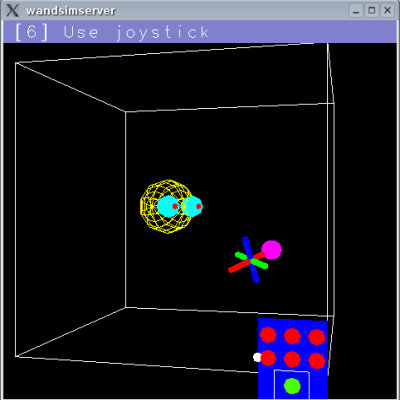
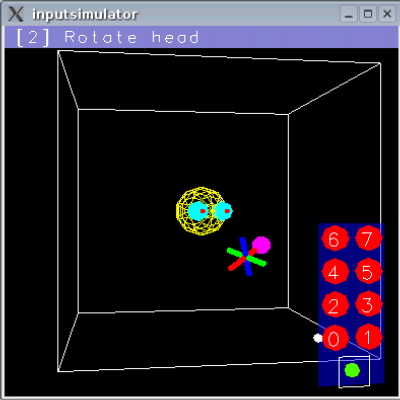
fixed a little arGraphicsStateNode bug and have started updating the docs

Changed region(s): [[0.0, 0.0, 1.0, 1.0], [0.57, 0.57, 0.72, 0.72]]

diff --git a/doc/Bugs.html b/doc/Bugs.html
@@ -75,9 +75,6 @@ previously.
 
 <li>Phleet needs new methods! Specifically, we must be able to release
 services. Also, need to be able to get service info from the command line!
-<li> On Mac OS X, dhunt does not seem to work. If you run an szgserver
-on OS X and type dhunt on that box, the szgserver does not appear. Is the
-problem filtering of the broadcast packets?
 <li>BUG: if someone is looking for a service on network X but the
 service is offered on network Y, the connection won't work, but the
 service will disappear from dpending.
@@ -88,87 +85,23 @@ impairs the system. We should be more robust!
   
 <p><font size=+1>Graphics/Scene Graph/Database</font> <ul>
 
-<li>Alpha value for textures is SERIOUSLY messed up! Alpha channel in 
-textures doesn't quite work anymore. Specifically,
-the drawing code only turns blending on if it thinks that the alpha is less
-than 1 and the texture doesn't contribute to that as currently formulated.
-
-<li>BUG: My switch for determining if a texture is a bit buggy! What if
-someone uses an empty string for the texture name? (temporarily...) This
-can result in a situation where you cannot download a database!
-
-<li>Cannot reorder nodes. Sometimes drawing order needs to be changed 
-like when transparency is used. And drawing order depends on node order.
-Also, the nav node is attached first, so that its children are always
-drawn before the non-navigated objects.
-
-<li>Cameras are not handled very well in the arGraphicsDatabase. There is
-genuinely draw state which currently exists (which camera is active) but
-which does not appear in a dump. Furthermore, it is unclear how (if cameras
-weren't global) how different camera-containing trees would be combined.
-
 <li>Should be posible to draw .obj's without a graphics database.
-
-<li>Need a way, in the scene graph, to turn on/off OpenGL properties.
-
-<li>Should add mesh nodes (for simple shapes) to the database!
-
-<li>Need to consider mutex locking/unlocking of get/set methods and how this
-will work. For instance, it is not currently safe to get a matrix from a
-transform node because someone else might be changing it in place!
-
-<li>Need to support attach/detach for nodes in the database. This will
-enable more natural semantics
-
-<li>Need to use smart pointers for nodes! (our nodes may be deleted out from
-under us)
-
-<li>Thread-safety issues in terms of attaching/detaching a node and 
-invoking methods of that node... when the way the methods are invoked will
-changed based on whether or not it is part of a database!
-
-<li>Need to be able to "insert" a node (not just make a child of a parent).
-
-<li>Need to be able to delete a node, not a subtree (though deleting the
-subtree is important as well).
 
 <li>The node method calls are woefully inefficient for large arrays because 
 they do not use prtIn.
-
-<li>The node method calls should use an arStructuredDataParser to provide
-storage instead or new/delete. This should be benchmarked against using
-global (and NON THREAD-SAFE) storage!
 
 <li>dgSetGraphicsDatabase must be eliminated!
 
 <li>The light direction seems to be wrong! (i.e. direction = (0,0,10,0)
     instead of direction = (0,0,-10,0)
 
-<li>Things like arMesh and arOBJ etc. should have an implicit transform node
-contained within them.
-
 <li>3DS objects cannot have multiple parts! (i.e. only a single mesh 
 element, which means only a single material). Very bad!
 
-<li>obj parser does not show textures!
 
-<li>Erase seems to have infinite erase problems!
+</ul>
+<p><font size=+1>Python</font> <ul>
 
-<li>Cannot erase dgLight nodes.
-
-  </ul>
-  <p><font size=+1>Python</font> <ul>
-
-<li>Need to support more nodes in the python wrappers... i.e. all of them!
-
-<li>Implicit arguments do not seem not be handled well by SWIG (see the way
-createNode crashes on an implicit name)
-
-<li>On the python side, Cannot get the points array from the points node!
-    (i.e. getPoints() does not work!)
-
-<li>On the python side, obj.readOBJ does not work because of the path
-argument!
 
 <li>Must deal with the python examples (i.e. make them fit into the
 pattern...)
@@ -187,7 +120,9 @@ OR, if no arSZGClient, we will go ahead and explicitly do it.
 
 <li>The arDataServer should allow specific-socket-sending via HANDLES only.
 This is because it actively manages the sockets (and there's the possibility
-of a stale pointer).
+of a stale pointer). Another way to deal with this would be to add an
+event processing API, so that socket delete occurs a little less automatically,
+and to add reference counting to the socket class.
 
 <li>A weird bug. In standalone mode, with joystick (as in the standalone
 landspeeder), if the pforth filter is in the old style 
@@ -195,10 +130,10 @@ landspeeder), if the pforth filter is in the old style
 program segfaults with an error message "arSyncDataServer error: start 
 called before init".
 
-<li>Double key presses on master (when standalone). [What does this mean?]
-
 <li>Fix documentation to show how to use meshes (.obj and .3ds files) in
 master/slave framework apps.
+
+<hr>
 
 </ul>
 </body>

diff --git a/doc/GettingSoftware.html b/doc/GettingSoftware.html
@@ -51,32 +51,32 @@ the binary installable szg packages.
 <p>The following software (and data) packages are part of the Syzygy 
 distribution:
 <p><ul>
-<li>szg-0.7.tar.gz: Everything necessary to build and test the library. 
+<li>szg-0.8.tar.gz: Everything necessary to build and test the library. 
 Includes sample applications. See <a href="ExampleCode.html">here</a> for 
 information about running them.
-<li>vmat-0.7.tar.gz: A real-time physics library. Used in one of the szgdemo
+<li>vmat-0.8.tar.gz: A real-time physics library. Used in one of the szgdemo
 sample applications and includes an example of its own.
-<li>szgdemo-0.7.tar.gz: Additional sample applications. These are described
+<li>szgdemo-0.8.tar.gz: Additional sample applications. These are described
 <a href="ExampleCode.html">here</a>. 
-<li>szgdata-0.7.tar.gz: Data necessary for the sample applications, as outlined
+<li>szgdata-0.8.tar.gz: Data necessary for the sample applications, as outlined
 <a href="ExampleCode.html">here</a>, but excluding some particularly large 
 files, which are available by request.
-<li>py-szg-0.7.tar.gz: Python bindings for Syzygy.
-<li>pycube-0.7.tar.gz: Sample Python Syzygy programs.
-<li>szg-0.7-linux.tar.gz: Precompiled Linux version of the Syzygy SDK.
-<li>external-0.7-linux.tar.gz: External libraries and headers used to produce
+<li>py-szg-0.8.tar.gz: Python bindings for Syzygy.
+<li>pycube-0.8.tar.gz: Sample Python Syzygy programs.
+<li>szg-0.8-linux.tar.gz: Precompiled Linux version of the Syzygy SDK.
+<li>external-0.8-linux.tar.gz: External libraries and headers used to produce
 the executables.
-<li>szg-0.7-win32-vc6.tar.gz: Precompiled Win32 version of the Syzygy SDK for
+<li>szg-0.8-win32-vc6.tar.gz: Precompiled Win32 version of the Syzygy SDK for
 Visual Studio 6 plus STLport.
-<li>szg-0.7-win32-vc7.tar.gz: Precompiled Win32 version of the Syzygy SDK for
+<li>szg-0.8-win32-vc7.tar.gz: Precompiled Win32 version of the Syzygy SDK for
 Visual Studio 7.
-<li>external-0.7-win32.tar.gz: External libraries and headers used to produce
+<li>external-0.8-win32.tar.gz: External libraries and headers used to produce
 the executables.
-<li>szg-0.7-darwin.tar.gz: Precompiled Mac OS X version of the Syzygy SDK.
-<li>external-0.7-darwin.tar.gz: External libraries and headers used to produce
+<li>szg-0.8-darwin.tar.gz: Precompiled Mac OS X version of the Syzygy SDK.
+<li>external-0.8-darwin.tar.gz: External libraries and headers used to produce
 the executables.
-<li>szg-0.7-sgi.tar.gz: Precompiled SGI version of the Syzygy SDK.
-<li>external-0.7-sgi.tar.gz: External libraries and headers used to produce 
+<li>szg-0.8-sgi.tar.gz: Precompiled SGI version of the Syzygy SDK.
+<li>external-0.8-sgi.tar.gz: External libraries and headers used to produce 
 the executables.
 <li>szg_app_template.tar.gz: A cross-platform build structure for C++ projects.
 </ul>
@@ -97,7 +97,7 @@ The Visual Studio 6 package is not compatible with Visual Studio .NET
 compilers and vice-versa.
 
 <p>For all platforms, unpack the precompiled distribution to a directory 
-szg-0.7. To run Syzygy programs you will need to, assuming that $SZGHOME is 
+szg-0.8. To run Syzygy programs you will need to, assuming that $SZGHOME is 
 the location of the new directory:
 
 <p><ul>
@@ -282,10 +282,10 @@ is optional.
 <li>SZGDEBUG: (optional) If set to "TRUE", a debug build will be produced.
 <li>SZG_DEVELOPER_STYLE: (optional) If set to "EASY", the build assumes that the
   Syzygy headers and libraries are arranged as in one of the precompiled
-  binary distributions, such as szg-0.7-linux.tar.gz. See 
+  binary distributions, such as szg-0.8-linux.tar.gz. See 
   <a href="Programming.html">this</a> chapter for further information.
   Please note, by default the code assumes that the Syzygy headers and
-  libraries are arranged as in the "developer" version (szg-0.7.tar.gz) you
+  libraries are arranged as in the "developer" version (szg-0.8.tar.gz) you
   compile yourself.
 <li>SZG_MULTITEX: (optional) Some platforms (especially recent Linux distributions) 
   do not support the multitexturing tricks of the q33 demo. Set this to "FALSE" to

diff --git a/doc/TrackingSim.html b/doc/TrackingSim.html
@@ -27,26 +27,47 @@ input slot (say 1) like so:
   inputsimulator 1
 </pre>
 
+<table>
+<tr>
+<td>
 <p><img src="images/inputsimulator.png" height=400 width=400>
+</td>
+<td>
+<p><img src="images/inputsimulator2.png" height=400 width=400>
+</td>
+</table>
 
 <p>While executing, inputsimulator opens a window showing a view from behind 
-into a 10-foot cubical space (remarkably reminiscent of the inside our CUBE). 
+into a 10-foot cubical space (reminiscent of the inside of our CUBE). 
 A wireframe sphere in the center represents the subject's head (initially 
-facing away from us). The other visible object represents a wand with six 
-buttons. inputsimulator sends data to the application specifying the position 
+facing away from us). The other visible object represents a wand with eight
+buttons. inputsimulator sends data to the application, specifying the position 
 and orientation of the head and of the wand and the state of the wand's 
-buttons.
+buttons. To better support two button mice (which are the norm on Windows
+laptops), the inputsimulator starts out with the buttons organized in 2
+columns, with the left and right mouse buttons corresponding to the left
+and right buttons in the currently selected row. The user changes the selected 
+row by pressing the space bar. If a middle mouse button exists and the user
+presses it, the layout of simulated wand buttons changes so that there are 3
+buttons in a row, with the left, middle, and right nouse buttons mapping to 
+them in the obvious way.
 
 <p>When using the simulator, there are several modes, selected by the keys
 1-7. 
 <p><ol>
 <li>Move the head. Mousing with the left button down moves head in the screen 
-   plane. Mouse with the middle button down moves head into/ out of the screen.
+   plane. Mouse with the right button down moves head into/ out of the screen.
 <li>Rotate head. Mousing with the left button down rotates head around the 
-   y axis. Mouse with the middle button down rotates the head around the x 
-   axis.
+   y axis. Mouse with the right button down rotates the head around the x 
+   axis. PLEASE NOTE: Whether or not head rotation noticeably affects the
+   images displayed by your application depends on how you've configured the
+   viewing camera. In Syzygy, the default VR camera is head-mounted. In this
+   case, rotating the head will rotate the field of view in the virtual world.
+   On the other hand, if a fixed-screen VR camera is used (as would be
+   desirable for a CAVE environment), rotating the head will cause only a
+   small change in the displayed image.
 <li>Translate wand: Mousing with the left button down translates the wand in 
-   the screen plane. Mouse with the middle button down translates the wand into
+   the screen plane. Mouse with the right button down translates the wand into
    and out of the screen. 
 <li>Translate wand & use buttons: Mouse movement translates the wand in the
    x-y plane. Pressing mouse buttons activates the device buttons.
@@ -56,9 +77,9 @@ buttons.
    mousing moves the joystick.
 <li>Rotate the world: When a mouse button is pressed, the view rotates around
    the y axis.
-<li>The inputsimulator program emulates the use of a wand with 6 buttons.
-    By pressing the space bar, you can change the mapping of the mouse buttons
-    from wand buttons 1-3 to wand button 4-6 and back again.
+<li>The inputsimulator program emulates the use of a wand with 8 buttons.
+    By pressing the space bar, you cycle through the rows of simulated wand
+    buttons, with the currently selected row designated by a small white dot.
 </ol>
 
 <hr>

diff --git a/doc/Introduction.html b/doc/Introduction.html
@@ -5,7 +5,7 @@
 <body bgcolor="#ffffff">
 <a href="index.html">Documentation Index</a>
 
-<p>NOTICE: This is Syzygy version 0.7. 
+<p>NOTICE: This is Syzygy version 0.8. 
 If you have been using an earlier version, consult the 
 <a href="ChangeLog.html">Change log</a> for information on how to 
 modify earlier practices.

diff --git a/doc/index.html b/doc/index.html
@@ -11,7 +11,7 @@
 <img src="images/SyzygyLogo.jpg" width=256 height=90>
 </a>
 
-<p><font size=+2>Syzygy 0.7: Table of Contents</font>
+<p><font size=+2>Syzygy 0.8: Table of Contents</font>
 <p><ol>
 
 <hr><font size=+1> Background </font><p>

diff --git a/src/graphics/arGraphicsStateNode.cpp b/src/graphics/arGraphicsStateNode.cpp
@@ -74,7 +74,12 @@ arGraphicsStateID arGraphicsStateNode::getStateID(){
 }
 
 bool arGraphicsStateNode::isFloatState(){
-  return _isFloatState();
+  // NOTE: _isFloatState is NOT thread-safe (since it uses the node's current
+  // state).
+  ar_mutex_lock(&_nodeLock);
+  bool r = _isFloatState();
+  ar_mutex_unlock(&_nodeLock);
+  return r;
 }
 
 bool arGraphicsStateNode::isFloatState(const string& stateName){
@@ -146,7 +151,8 @@ bool arGraphicsStateNode::setGraphicsStateInt( const string& stateName,
                                                arGraphicsStateValue value2) {
   arGraphicsStateID id = _convertStringToStateID(stateName);
   if (_checkFloatState(id)) {
-    cerr << "arGraphicsStateNode error: attempt to setGraphicsStateInt() for float state node type.\n";
+    cerr << "arGraphicsStateNode error: attempt to setGraphicsStateInt() "
+	 << "for float state node type.\n";
     return false;
   }
   if (_owningDatabase) {
@@ -154,7 +160,8 @@ bool arGraphicsStateNode::setGraphicsStateInt( const string& stateName,
     stateValueInt[0] = value1;
     stateValueInt[1] = value2;
     ar_mutex_lock(&_nodeLock);
-    arStructuredData* r = _dumpData(stateName, stateValueInt, _stateValueFloat, true);
+    arStructuredData* r = _dumpData(stateName, stateValueInt, 
+                                    _stateValueFloat, true);
     ar_mutex_unlock(&_nodeLock);
     _owningDatabase->alter(r);
     _owningDatabase->getDataParser()->recycle(r);
@@ -183,12 +190,13 @@ bool arGraphicsStateNode::setGraphicsStateFloat(const string& stateName,
                                                 float stateValueFloat) {
   arGraphicsStateID id = _convertStringToStateID(stateName);
   if (!_checkFloatState(id)) {
-    cerr << "arGraphicsStateNode error: attempt to setGraphicsStateFloat() for int state node type.\n";
+    cerr << "arGraphicsStateNode error: attempt to setGraphicsStateFloat() "
+	 << "for int state node type.\n";
     return false;
   }
   if (_owningDatabase) {
     ar_mutex_lock(&_nodeLock);
-    arStructuredData* r = _dumpData(stateName, NULL, _stateValueFloat, true);
+    arStructuredData* r = _dumpData(stateName, NULL, stateValueFloat, true);
     ar_mutex_unlock(&_nodeLock);
     _owningDatabase->alter(r);
     delete r;
@@ -347,6 +355,8 @@ string arGraphicsStateNode::_convertStateValueToString(arGraphicsStateValue v){
   }
 }
 
+/// Thread-safe. DO NOT use the _nodeLock in here (can be called from
+/// inside that lock).
 bool arGraphicsStateNode::_checkFloatState( arGraphicsStateID id ) {
   switch (id) {
   case AR_G_POINT_SIZE:
